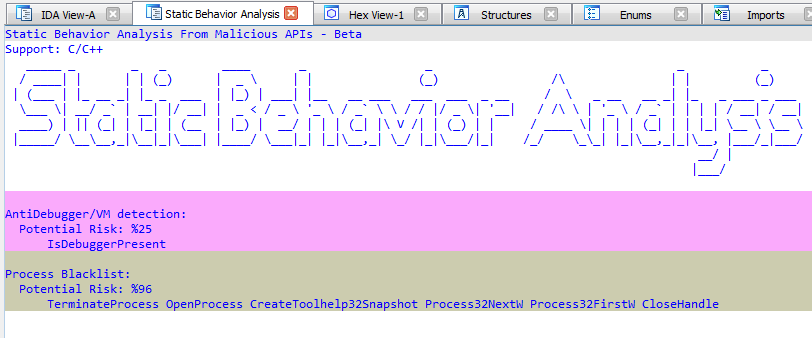
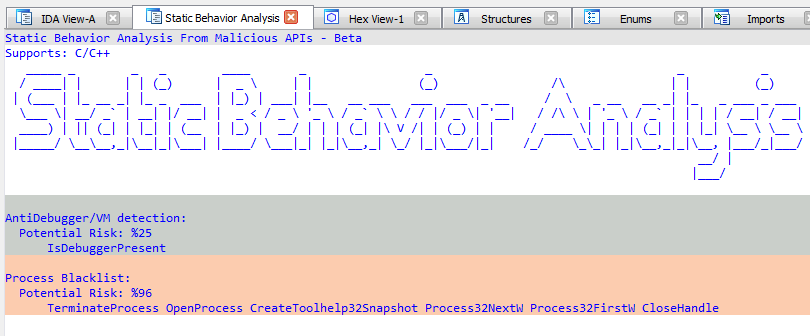
image added

diff --git a/sba.py b/sba.py
@@ -91,7 +91,7 @@ def print_title(self,prefix,bg):
     mstr9 = ""
     
     self.AddLine("Static Behavior Analysis From Malicious APIs - Beta", fgcolor=prefix, bgcolor=bg)
-    self.AddLine("Support: C/C++", fgcolor=prefix, bgcolor=bg)
+    self.AddLine("Supports: C/C++", fgcolor=prefix, bgcolor=bg)
     self.AddLine(mstr1, fgcolor=prefix, bgcolor=bg)
     self.AddLine(mstr2, fgcolor=prefix, bgcolor=bg)               
     self.AddLine(mstr3, fgcolor=prefix, bgcolor=bg)                
